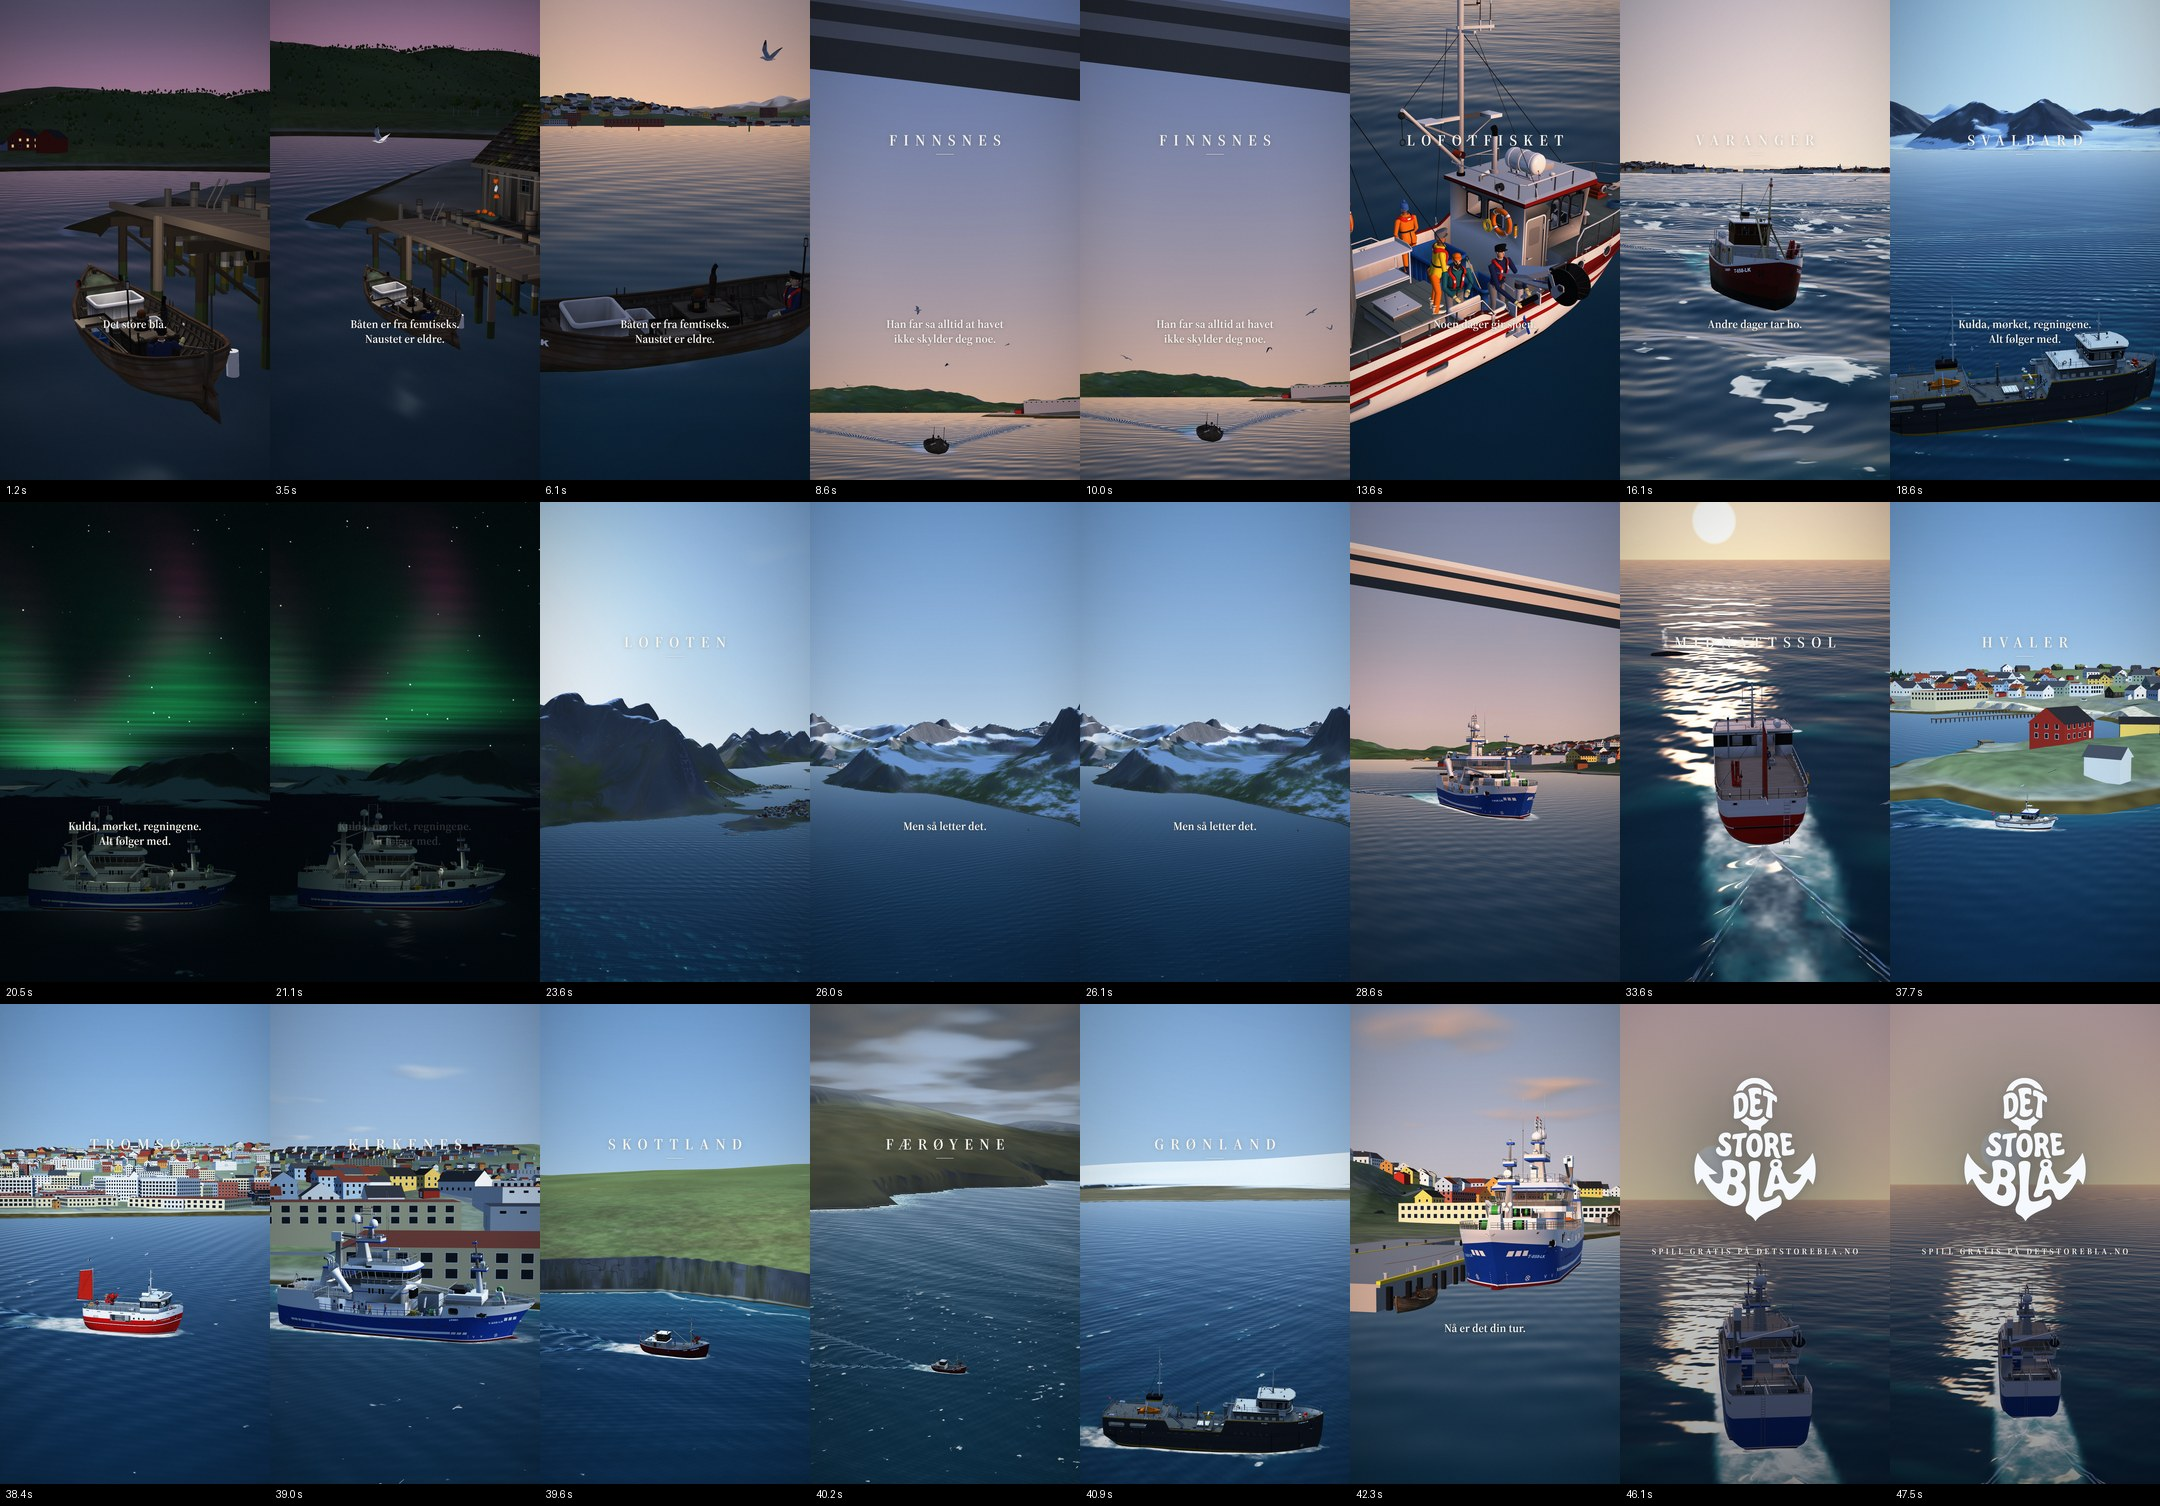
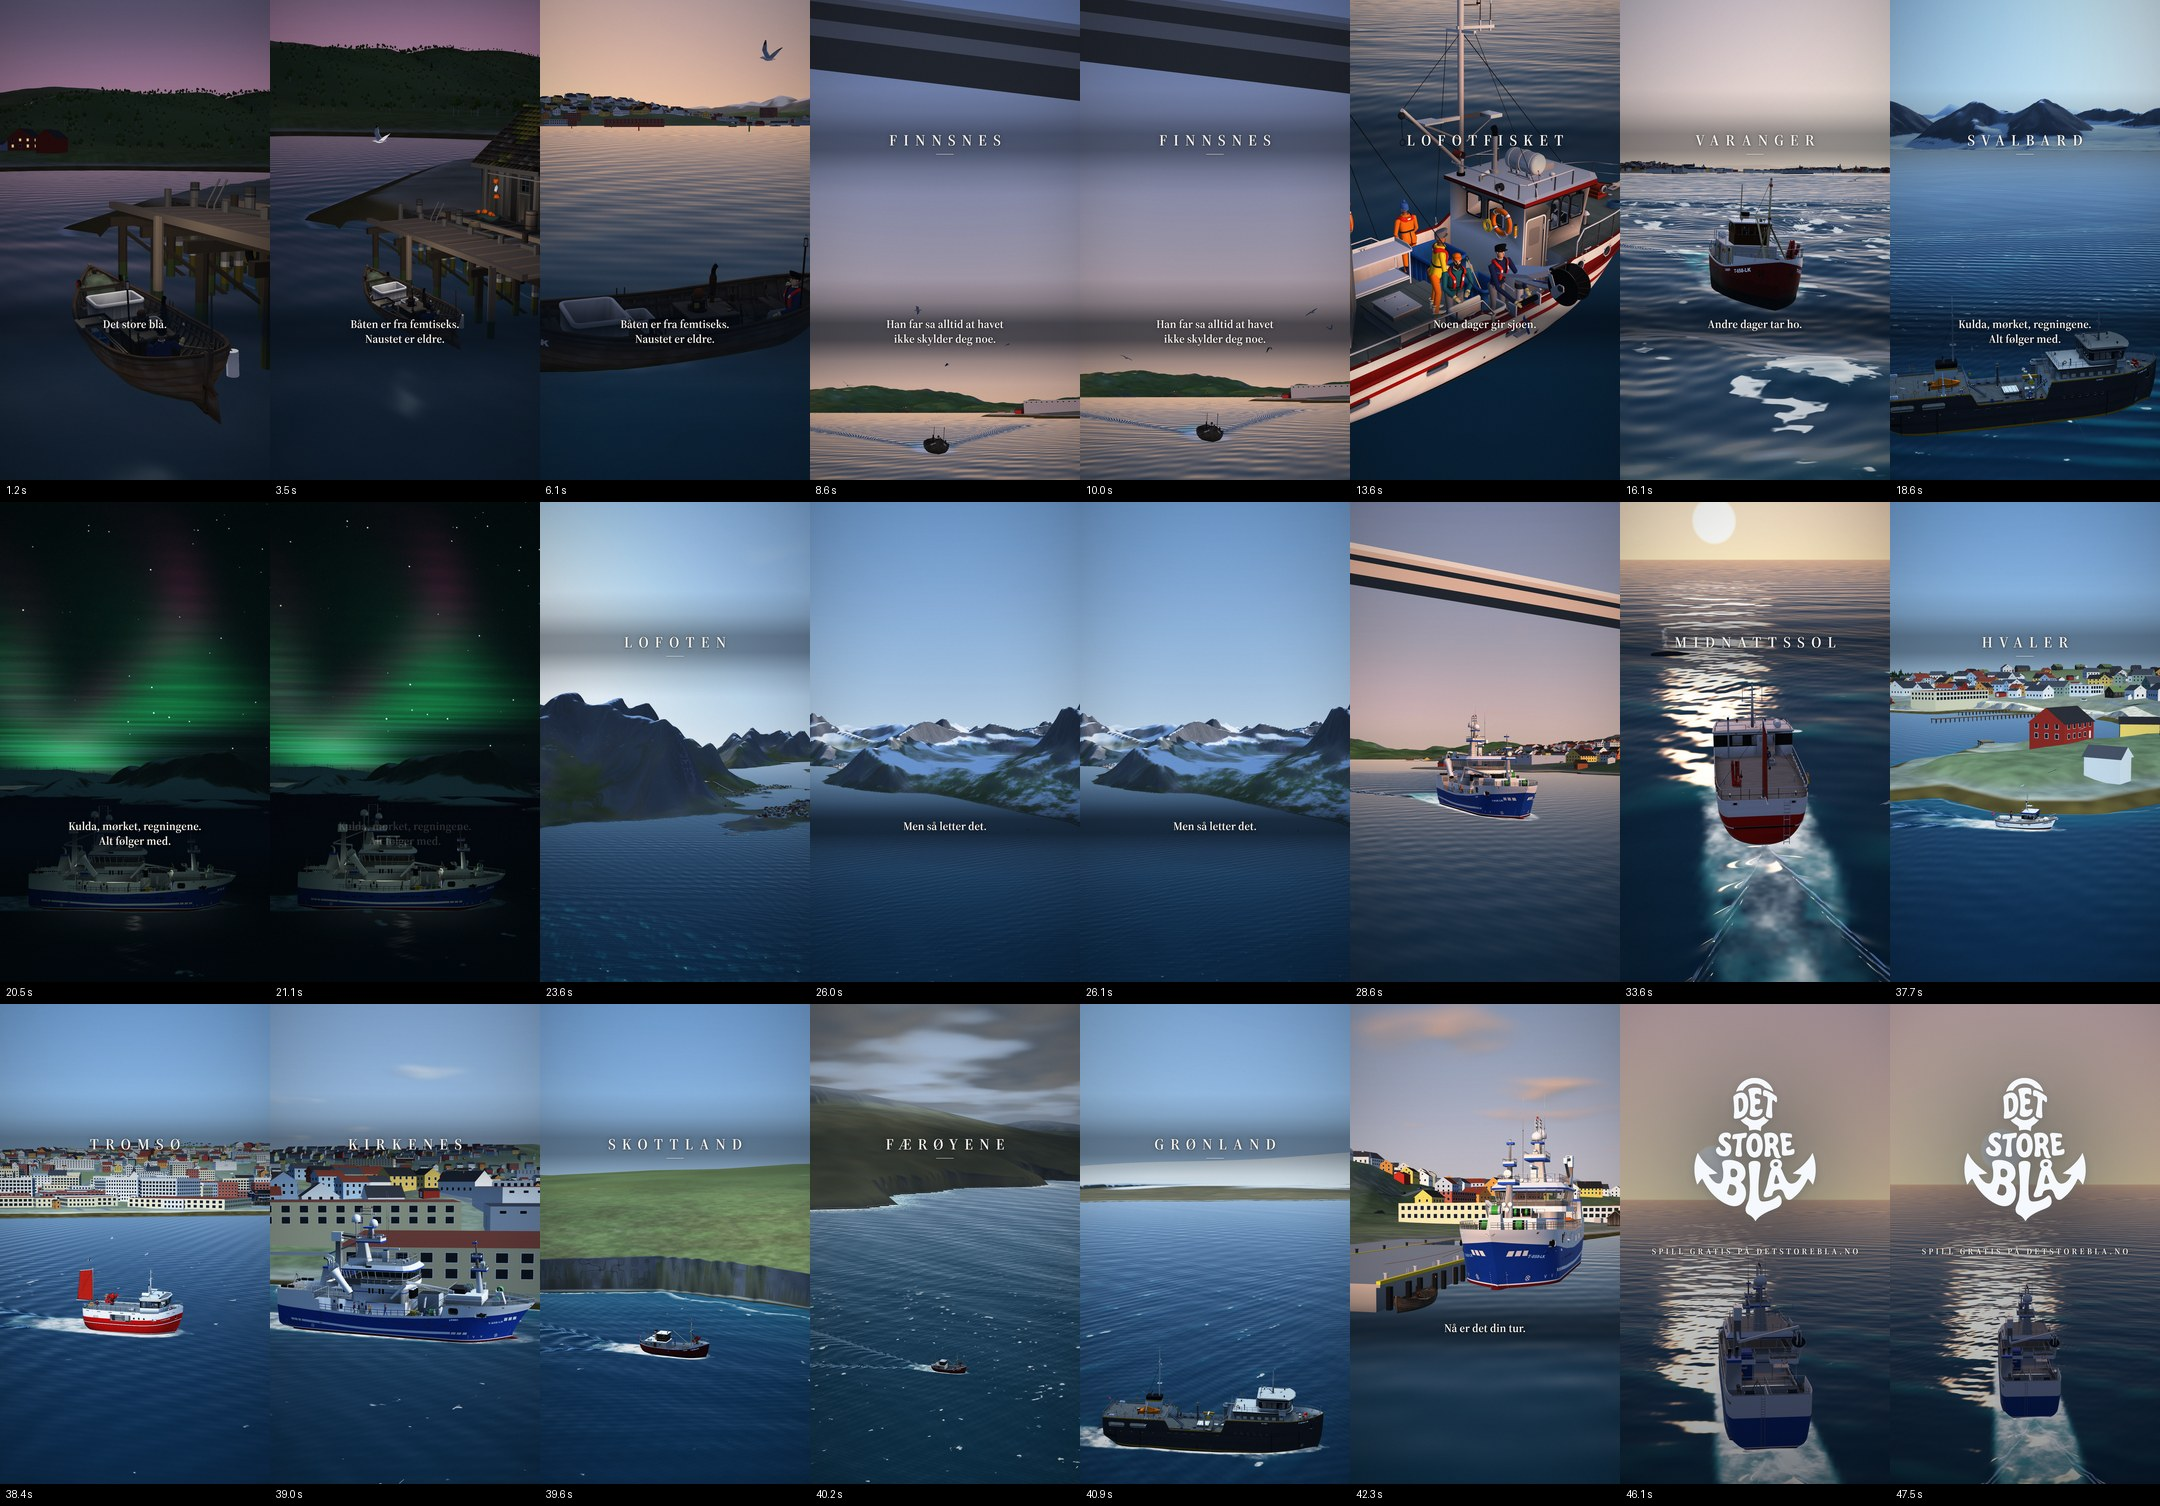
Trailer: mykt mørkt bånd og sterkere skygge bak all tekst, så den kan leses i alle bilder (Jonas 10.11.2026)

diff --git a/trailer/tools/titles.py b/trailer/tools/titles.py
@@ -30,7 +30,7 @@ def page(body, w, h, bg='transparent'):
 @font-face{{font-family:SS4;src:url(data:font/ttf;base64,{f}) format('truetype');}}
 html,body{{margin:0;width:{w}px;height:{h}px;background:{bg};overflow:hidden}}
 .t{{position:absolute;left:0;right:0;text-align:center;font-family:SS4;color:#f7f4ee;
-  text-shadow:0 1px 2px rgba(0,0,0,.28),0 0 22px rgba(0,0,0,.22)}}
+  text-shadow:0 1px 2px rgba(0,0,0,.6),0 0 6px rgba(0,0,0,.45),0 0 22px rgba(0,0,0,.4)}}
 .cap{{text-transform:uppercase;letter-spacing:.42em;text-indent:.42em}}
 .rule{{position:absolute;left:50%;height:2px;background:rgba(247,244,238,.75);box-shadow:0 0 8px rgba(0,0,0,.25)}}
 </style></head><body>{body}</body></html>"""
@@ -45,16 +45,22 @@ async def main():
         async def shot(name, html, omit=True):
             await pg.set_content(html); await pg.evaluate('document.fonts.ready'); await pg.wait_for_timeout(100)
             await pg.screenshot(path=os.path.join(a.out, name + '.png'), omit_background=omit)
+        # a soft dark shade behind the words, with no edge, a band the width of the picture that fades up and down (a round one showed as a smudge on a clear sky), so they can be read over a white hull, snow, the sun's glitter and houses
+        # (Jonas 10.11.2026: «Sørg for at teksten er leselig i alle bilder»): cy the middle of the words, ry the shade's half height
+        def shade(cy, ry, alpha, rx=0.5):
+            return (f'<div style="position:absolute;left:0;right:0;top:{int(cy - ry)}px;height:{int(2 * ry)}px;'
+                    f'background:linear-gradient(to bottom, rgba(4,12,22,0), rgba(4,12,22,{alpha * 0.35:.2f}) 22%, rgba(4,12,22,{alpha}) 42%, rgba(4,12,22,{alpha}) 58%, rgba(4,12,22,{alpha * 0.35:.2f}) 78%, rgba(4,12,22,0))"></div>')
         y = int(h * 0.27)   # the upper third: sky in nearly every shot, below TikTok's bar at the top (the boats are low in the frame)
         for key, txt in PLACES.items():
             rw = int(70 * k)
-            await shot(key, page(f'<div class="t cap" style="top:{y}px;font-size:{int(62 * k)}px">{txt}</div>'
+            await shot(key, page(shade(y + 50 * k, 210 * k, 0.4) + f'<div class="t cap" style="top:{y}px;font-size:{int(62 * k)}px">{txt}</div>'
                                   f'<div class="rule" style="top:{y + int(98 * k)}px;width:{rw}px;margin-left:{-rw // 2}px"></div>', w, h))
         for key, txt in LINES.items():
             await shot(key, page(f'<div class="t" style="top:{y - int(10 * k)}px;font-size:{int(92 * k)}px;letter-spacing:.015em">{txt}</div>', w, h))
         for key, txt in SUBS.items():
-            await shot(key, page(f'<div class="t" style="top:{int(h * 0.66)}px;left:{int(w * 0.13)}px;right:{int(w * 0.13)}px;font-size:{int(46 * k)}px;line-height:1.28;letter-spacing:.01em;'
-                                  f'text-shadow:0 1px 3px rgba(0,0,0,.45),0 0 18px rgba(0,0,0,.35)">{txt}</div>', w, h))
+            nl = txt.count('<br>') + 1
+            await shot(key, page(shade(h * 0.66 + 30 * k * nl, (150 + 30 * nl) * k, 0.6) + f'<div class="t" style="top:{int(h * 0.66)}px;left:{int(w * 0.13)}px;right:{int(w * 0.13)}px;font-size:{int(46 * k)}px;line-height:1.28;letter-spacing:.01em;'
+                                  f'text-shadow:0 1px 2px rgba(0,0,0,.75),0 0 5px rgba(0,0,0,.6),0 0 18px rgba(0,0,0,.5)">{txt}</div>', w, h))
         glow = f'filter:drop-shadow(0 0 {int(26 * k)}px rgba(255,255,255,.28)) drop-shadow(0 {int(4 * k)}px {int(18 * k)}px rgba(0,0,0,.35))'
         logo = f'<div style="position:absolute;left:{(w - logo_w) // 2}px;top:{int(h * 0.15)}px;width:{logo_w}px;height:{logo_h}px;{glow}">{svg}</div>'
         await shot('logo', page(logo, w, h))
